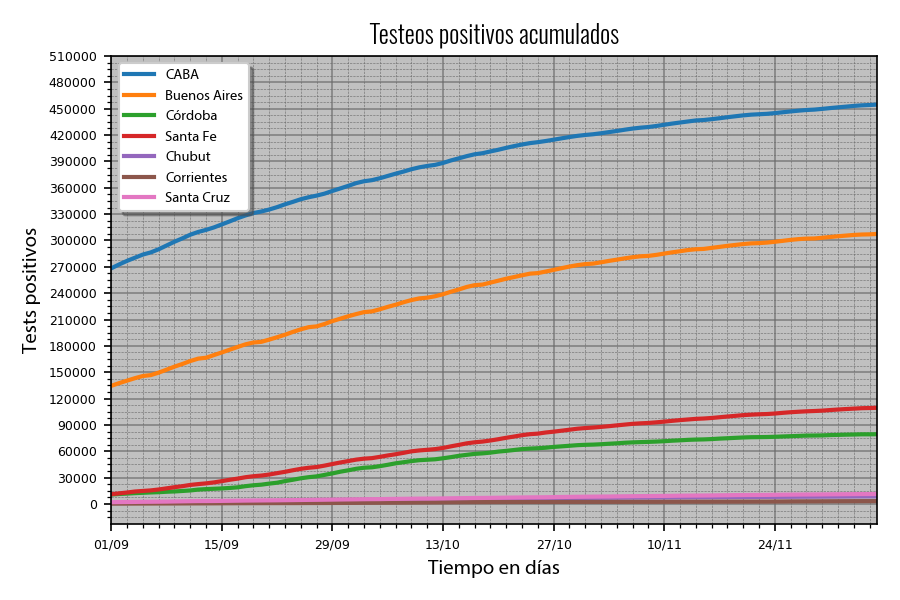
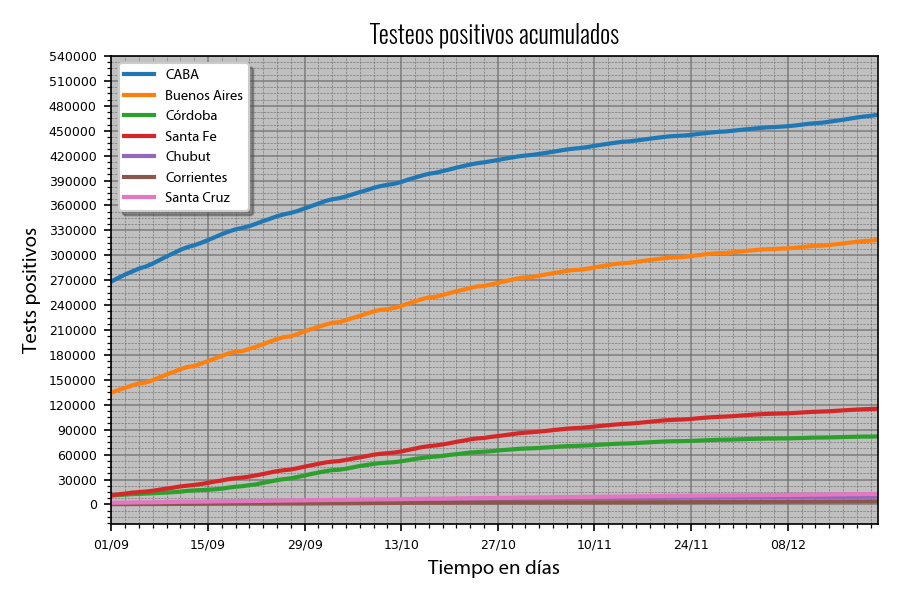
Updating testing charts...

diff --git a/COVID-19_DataGobAr_TestsAnalysis.py b/COVID-19_DataGobAr_TestsAnalysis.py
@@ -22,14 +22,14 @@ chartPath = "Argentina_Data/actual_charts/testing/"
 colorlist = ["orange", "tab:blue", "tab:red", "tab:green"]
 
 dataStartDate = "2020-02-11"
-dataEndDate = "2020-12-14"
+dataEndDate = "2020-12-26"
 wantedStartDate = "2020-09-01"
-wantedEndDate = "2020-12-07"
+wantedEndDate = "2020-12-21"
 dataPeriod = pd.date_range(dataStartDate, dataEndDate)
 plotScale = "linear"
 
 #Deciding language for titles and tags...
-lg = 1 # 0 for english, 1 for spanish
+lg = 0 # 0 for english, 1 for spanish
 ticksSizes = [1000, 150000, 0.15, 30000]
 
 #Deciding if you want to save and show charts...
